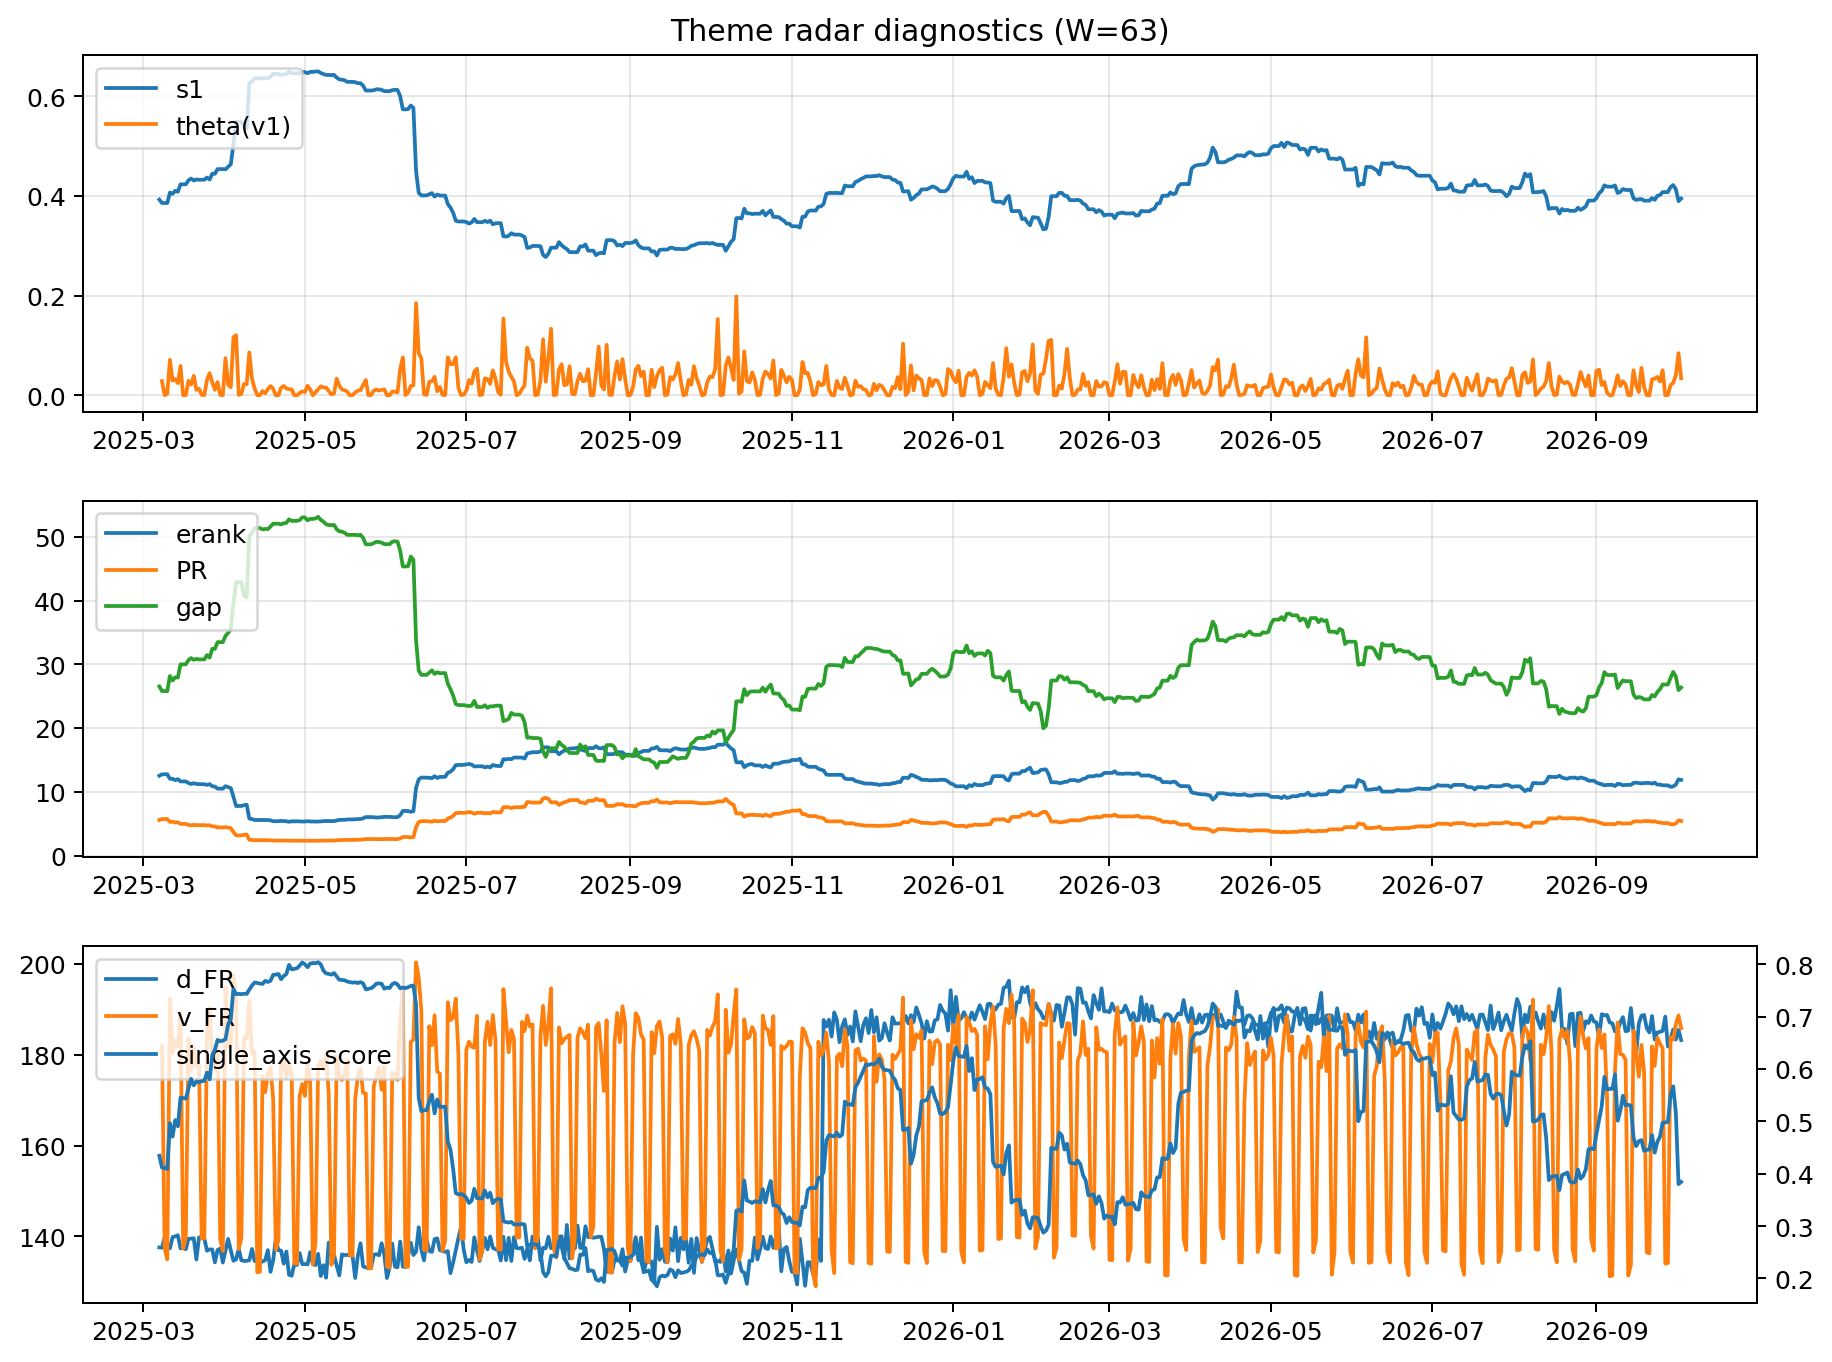
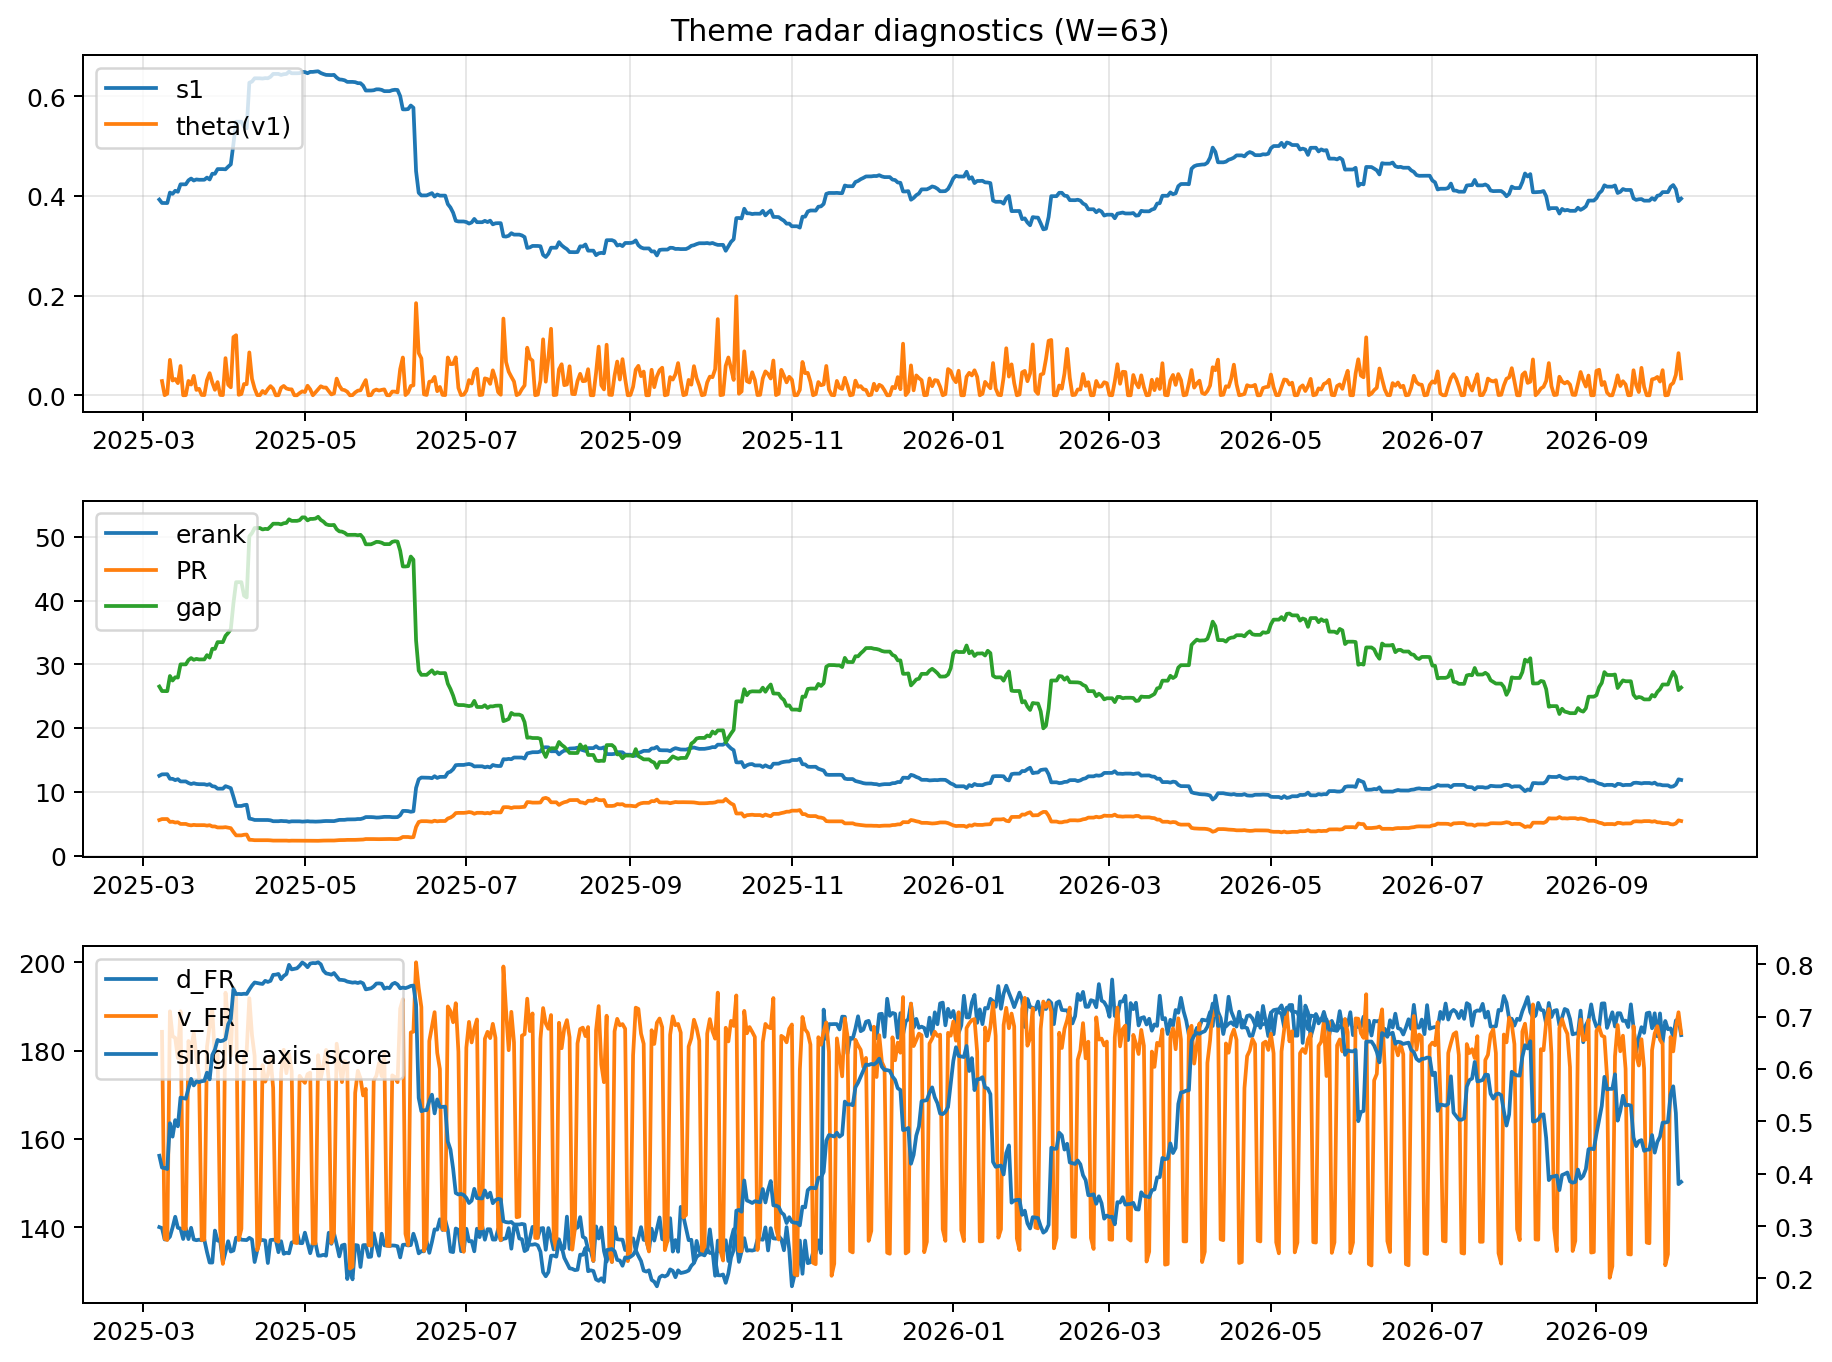
log: 2026-10-03 | sha256:b48e749baf82507028bf8135aece1a161ba27961025e72db3442ad4cd024ea3b

diff --git a/logs/2026-10-03.md b/logs/2026-10-03.md
@@ -3,43 +3,43 @@
 ![diagnostic W63](../assets/diagnostic/2026-10-03_W63.png)
 
 ## Leaders (v1) — W=63
-- **Nuclear_Uranium** (0.0749114115367458)
-- Semis (0.0609071158735216)
-- Space (0.0571010159182986)
+- **Nuclear_Uranium** (0.0749114057311816)
+- Semis (0.0609071102084163)
+- Space (0.0571010122502498)
 
 ## Challengers — W=63
-**v2:** Semis (0.0973324274105428), Genomics_Bio (0.0820991025552883), Grid_Power (0.0765259159160327)
-**v3:** Software_Cloud (0.0960548083266188), Metals (0.0739343466858787), Cyber (0.0675138670362635)
+**v2:** Semis (0.0973324637820186), Genomics_Bio (0.0820990885901441), Grid_Power (0.0765259295282226)
+**v3:** Software_Cloud (0.0960547435955041), Metals (0.0739344525581018), Cyber (0.0675138331505366)
 
 ## Migration (20D slope) — W=63
 **Top risers:**
-- axis_Rates: 0.0009817366149795
-- axis_DataCenter_Infra: 0.0006269713199217
-- axis_Sector_RealEstate: 0.0003776147980538
-- axis_Commodities: 0.0003186052346894
-- axis_Software_Cloud: 0.0003001356042687
-- axis_Sector_Utilities: 0.0002650799544201
-- axis_Credit: 0.0002496287087226
-- axis_Sector_ConsDisc: 0.000196313220579
-- axis_Sector_Materials: 0.0001891035385886
-- axis_Sector_Comm: 0.0001039192317335
+- axis_Rates: 0.0009817282429841
+- axis_DataCenter_Infra: 0.0006269718705004
+- axis_Sector_RealEstate: 0.0003776148230511
+- axis_Commodities: 0.0003186051130263
+- axis_Software_Cloud: 0.0003001357828739
+- axis_Sector_Utilities: 0.0002650799416575
+- axis_Credit: 0.0002496264407677
+- axis_Sector_ConsDisc: 0.0001963132418002
+- axis_Sector_Materials: 0.0001891035392729
+- axis_Sector_Comm: 0.0001039191194916
 
 **Top fallers:**
-- axis_Genomics_Bio: -0.000174023071097
-- axis_Metals: -0.000175575965874
-- axis_Crypto: -0.0002063256689172
-- axis_Drones_Autonomy: -0.0002160061366746
-- axis_Grid_Power: -0.0002385232893804
-- axis_Space: -0.0002777989220697
-- axis_Sector_ConsStap: -0.0002866457849414
-- axis_Quantum: -0.0003603877793354
-- axis_Semis: -0.0004390397659261
-- axis_Nuclear_Uranium: -0.0004702093740278
+- axis_Genomics_Bio: -0.0001740230650141
+- axis_Metals: -0.0001755756517147
+- axis_Crypto: -0.0002063254791137
+- axis_Drones_Autonomy: -0.0002160058112819
+- axis_Grid_Power: -0.0002385223037729
+- axis_Space: -0.000277798023648
+- axis_Sector_ConsStap: -0.0002866455350446
+- axis_Quantum: -0.0003603870519728
+- axis_Semis: -0.0004390386236938
+- axis_Nuclear_Uranium: -0.0004702085800043
 
 ## Risk line (W=63)
-- s1: 0.3945537264953357
-- theta_v1: 0.0339494358762046
-- v_FR: 185.8255420120586
+- s1: 0.3945537820585094
+- theta_v1: 0.0339494999187138
+- v_FR: 183.95625973455876
 - single_axis_score: 0.384375
 
 ## Interpretation
@@ -48,7 +48,7 @@
 - Action: Tomorrow watchlist: Rates, DataCenter_Infra, Sector_RealEstate, Commodities, Software_Cloud + v2_top1=Semis
 - Action: Hedge note: normal correlation stability.
 
-- Percentiles (W=63 history): vfr_pct=0.82, theta_pct=0.74, s1_pct=0.40, score_pct=0.31.
+- Percentiles (W=63 history): vfr_pct=0.70, theta_pct=0.74, s1_pct=0.40, score_pct=0.31.
 
 ---
[2 lines of base64/hex data omitted]
